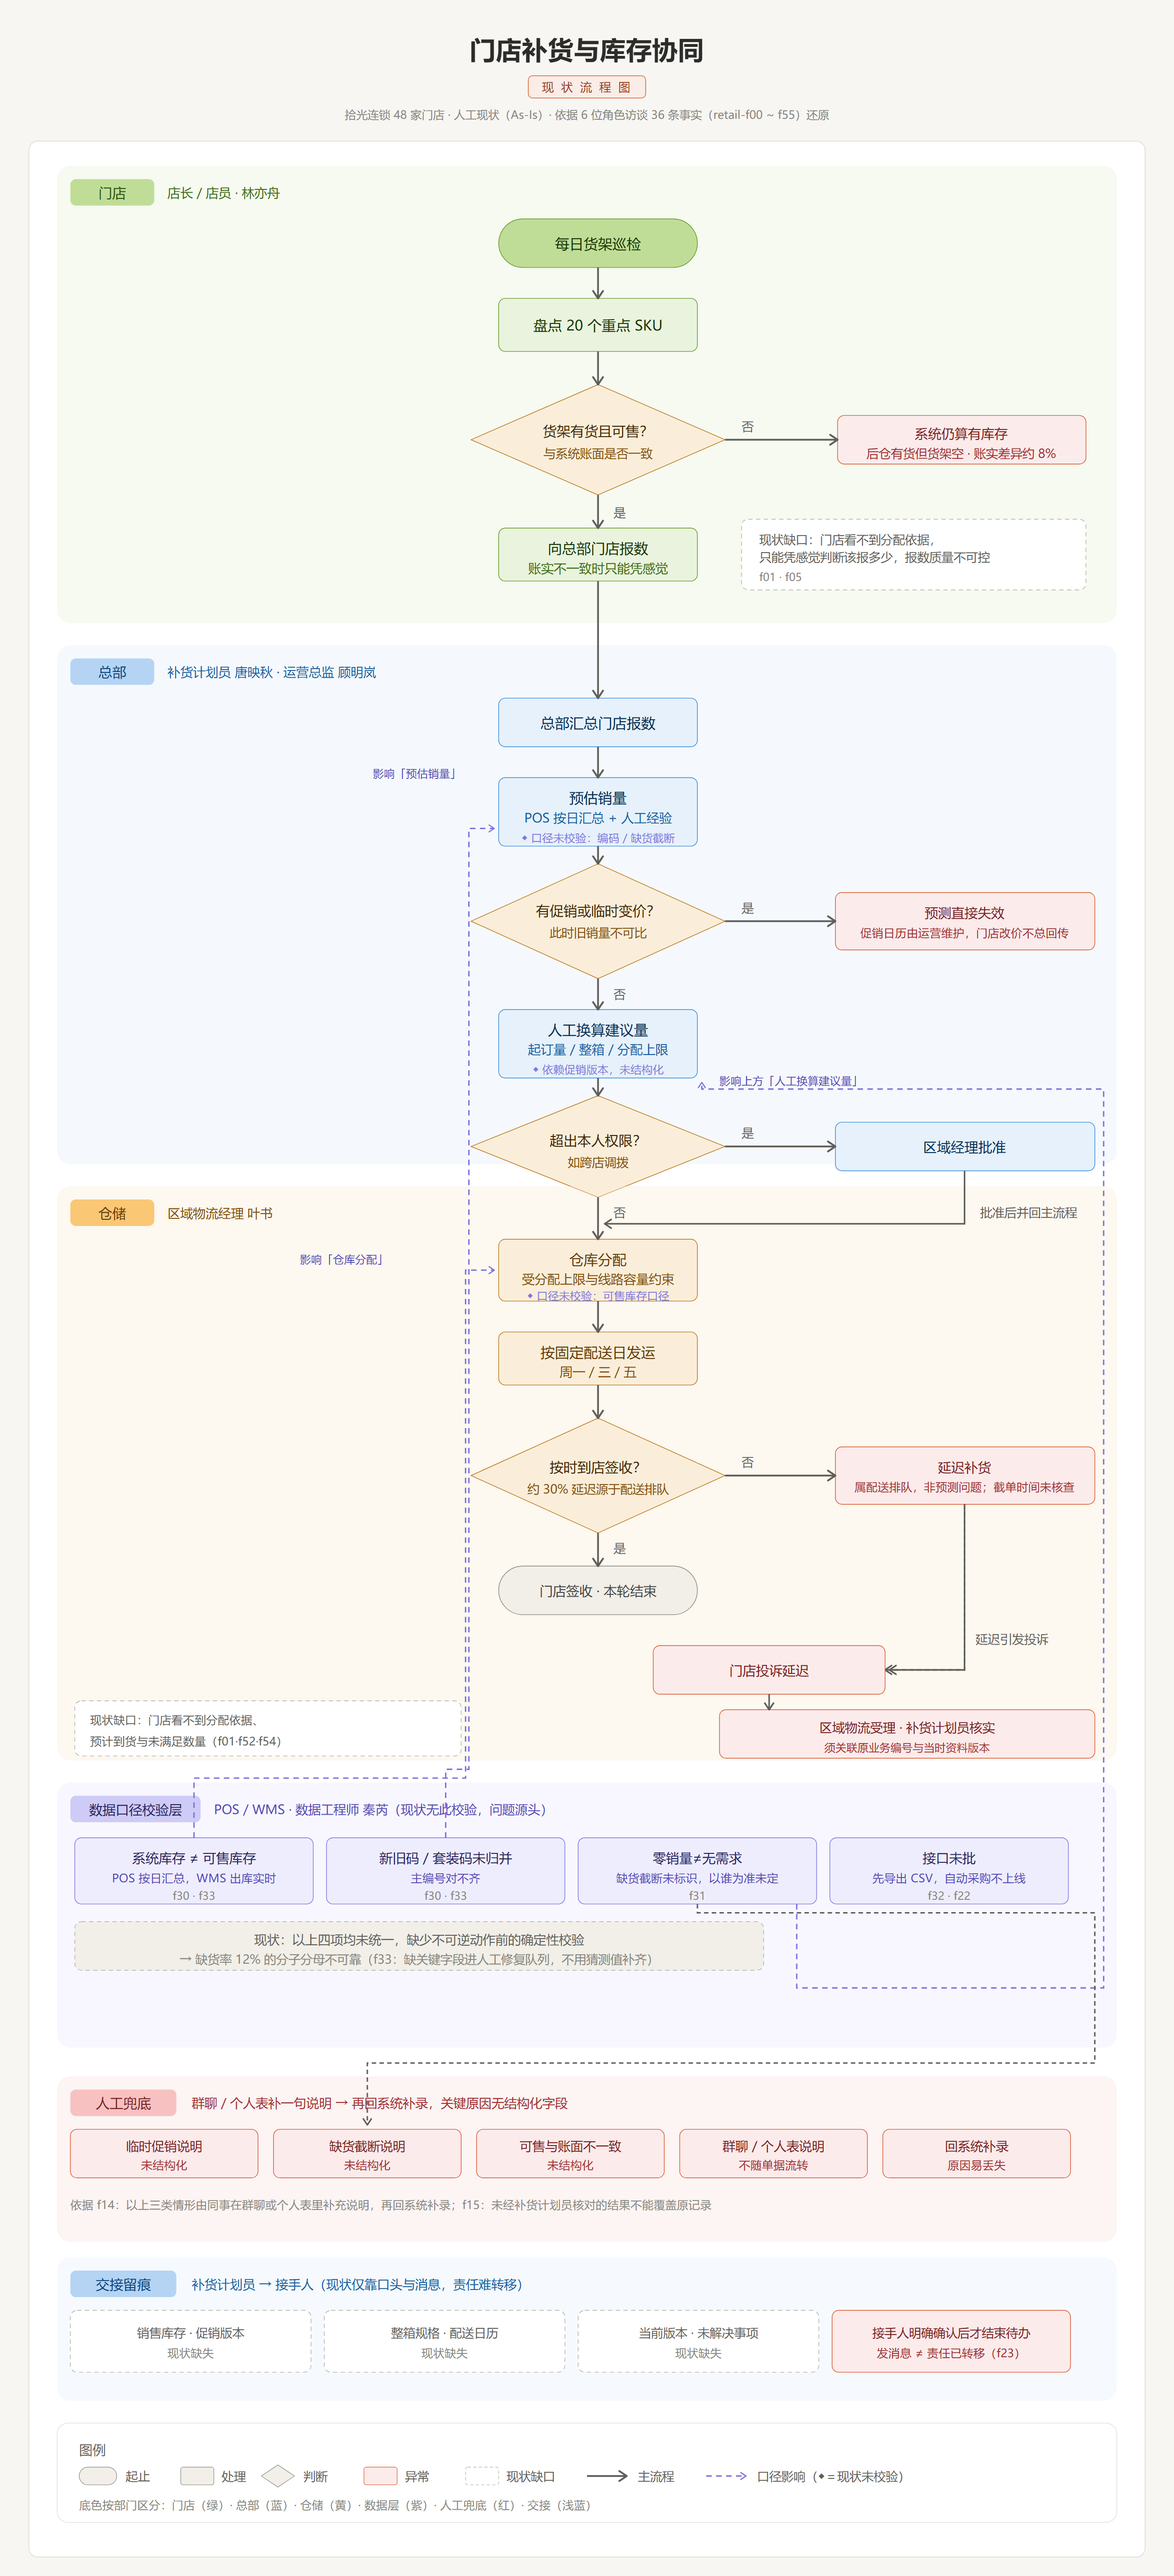
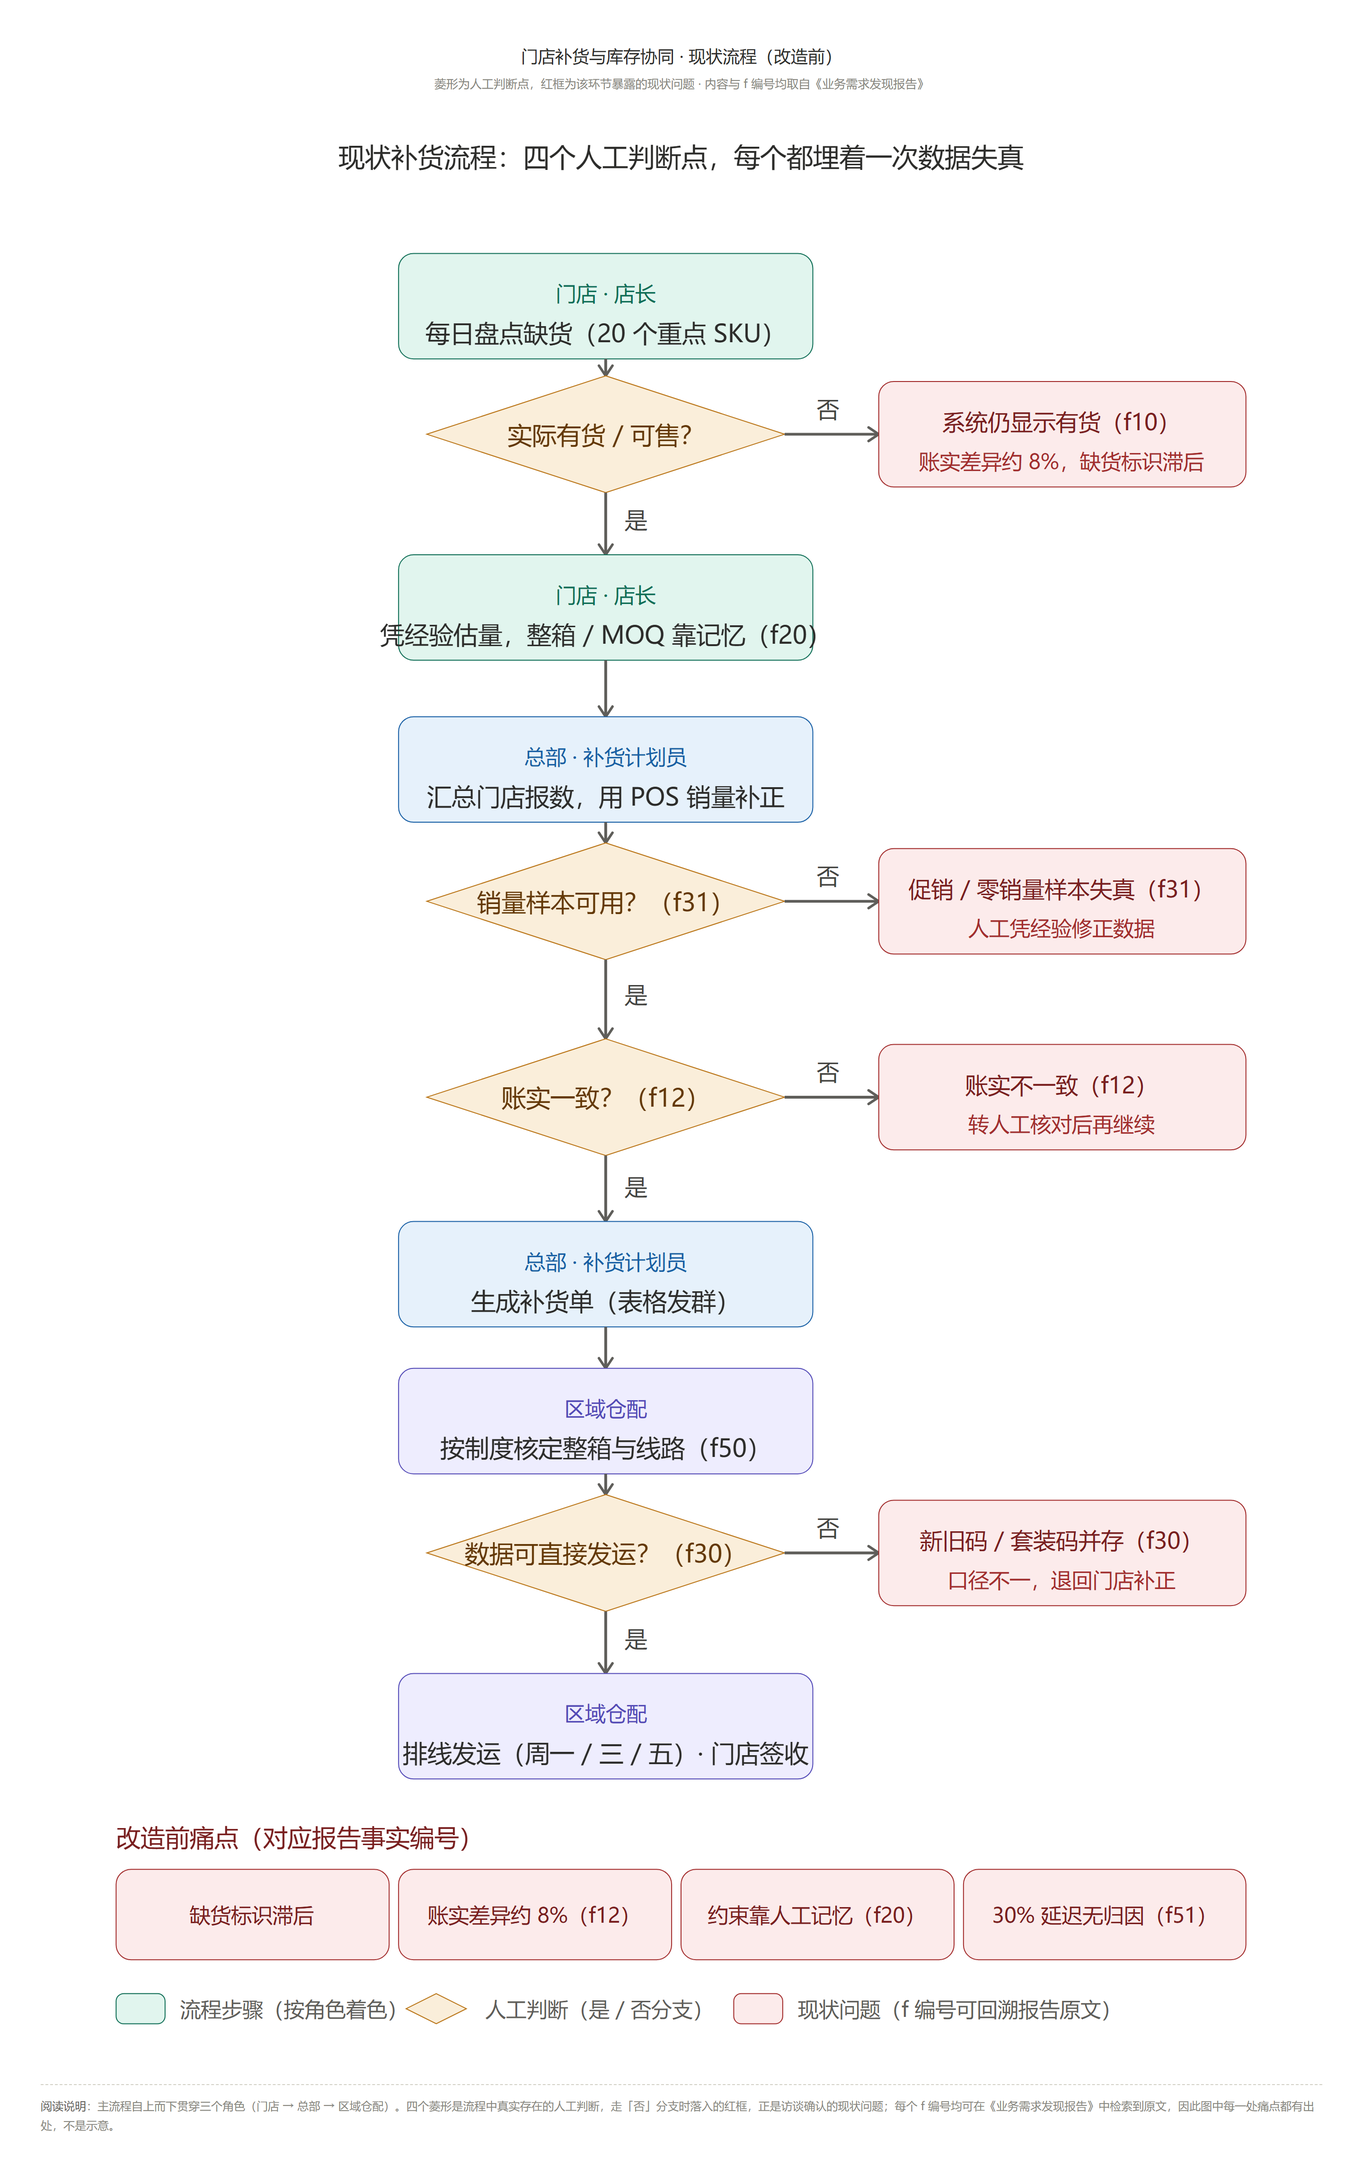
现状流程图 PNG 重制为判断框版的高清导出
- 删除旧的四泳道位图（与 HTML 内容不一致），替换为判断框版 HTML 的
  Chrome 无头渲染导出（2880×4614，2x 缩放，664KB），图文完全一致
- 新增 scripts/export_png.py：通用 HTML→PNG 导出工具（自动测量页面
  高度避免裁切/留白，device-scale-factor 控制分辨率，Chrome/Edge 均可）
- docs/README.md 索引同步：PNG 标注为 HTML 的同步导出版

之后修改流程图只需改 HTML 再运行 scripts/export_png.py 重新导出

diff --git a/scripts/export_png.py b/scripts/export_png.py
@@ -1,0 +1,108 @@
+"""把矢量 HTML 流程图导出为 PNG（Chrome headless，两步：先量高度，再截图）。
+
+用法：python export_png.py <源HTML> <输出PNG> [缩放倍数]
+"""
+import os
+import re
+import shutil
+import subprocess
+import sys
+import tempfile
+
+CHROME_CANDIDATES = [
+    r"C:\Program Files\Google\Chrome\Application\chrome.exe",
+    r"C:\Program Files (x86)\Google\Chrome\Application\chrome.exe",
+    r"C:\Program Files (x86)\Microsoft\Edge\Application\msedge.exe",
+    r"C:\Program Files\Microsoft\Edge\Application\msedge.exe",
+]
+
+
+def find_browser():
+    for p in CHROME_CANDIDATES:
+        if os.path.exists(p):
+            return p
+    raise RuntimeError("未找到 Chrome / Edge 浏览器")
+
+
+def build_export_html(src_html, out_html, card_width, scale):
+    """在源 HTML 里注入导出用样式：固定宽度、去掉圆角边框、SVG 按倍数放大。"""
+    html = open(src_html, encoding="utf-8").read()
+
+    svg_w = int(card_width * 0.94)          # 与卡片内边距对齐后的绘图区宽度
+    svg_h = int(svg_w * 1040 / 680)         # 按原始 viewBox 比例算高
+
+    override = f"""
+<style id="export-override">
+  html, body {{ background:#ffffff !important; }}
+  body {{ display:block !important; padding:0 !important; margin:0 !important; }}
+  .card {{ max-width:none !important; width:{card_width}px !important;
+           border:none !important; border-radius:0 !important;
+           padding:{int(card_width*0.033)}px {int(card_width*0.03)}px !important; }}
+  svg {{ width:{svg_w}px !important; height:{svg_h}px !important; }}
+</style>
+"""
+    # 测量脚本：把整页高度写进 title，供第二步读取
+    measure = """
+<script>
+  window.addEventListener('load', function () {
+    document.title = 'H=' + Math.ceil(document.body.scrollHeight);
+  });
+</script>
+"""
+    html = html.replace("</head>", override + "</head>")
+    html = html.replace("</body>", measure + "</body>")
+    open(out_html, "w", encoding="utf-8", newline="\n").write(html)
+    return svg_w, svg_h
+
+
+def run(browser, args, timeout=120):
+    return subprocess.run([browser] + args, capture_output=True, text=True,
+                          timeout=timeout, encoding="utf-8", errors="replace")
+
+
+def main():
+    src = sys.argv[1]
+    dst = sys.argv[2]
+    scale = float(sys.argv[3]) if len(sys.argv) > 3 else 2
+
+    browser = find_browser()
+    card_width = 1440
+
+    # 临时文件放在无中文的路径，避免命令行编码问题
+    tmpdir = os.path.join(tempfile.gettempdir(), "fc_export")
+    os.makedirs(tmpdir, exist_ok=True)
+    tmp_html = os.path.join(tmpdir, "export.html")
+    svg_w, svg_h = build_export_html(src, tmp_html, card_width, scale)
+    print(f"绘图区: {svg_w} x {svg_h} px")
+
+    url = "file:///" + tmp_html.replace("\\", "/")
+
+    # 第 1 步：量高度
+    probe = run(browser, ["--headless=new", "--disable-gpu", "--hide-scrollbars",
+                          f"--window-size={card_width},1200", "--virtual-time-budget=3000",
+                          "--dump-dom", url])
+    m = re.search(r"<title>H=(\d+)</title>", probe.stdout or "")
+    if not m:
+        raise RuntimeError("测量页面高度失败，Chrome 输出片段：\n" + (probe.stdout or "")[:400]
+                           + "\n" + (probe.stderr or "")[:400])
+    height = int(m.group(1)) + 4          # 留 4px 余量，避免最后一行被裁
+    print(f"页面总高: {height} px")
+
+    # 第 2 步：截图（device scale factor 控制输出分辨率）
+    out = os.path.join(tmpdir, "flow.png")
+    res = run(browser, ["--headless=new", "--disable-gpu", "--hide-scrollbars",
+                        f"--force-device-scale-factor={scale}",
+                        f"--window-size={card_width},{height}",
+                        "--virtual-time-budget=3000",
+                        f"--screenshot={out}", url])
+    if not os.path.exists(out):
+        raise RuntimeError("截图失败：" + (res.stderr or "")[:400])
+
+    shutil.copyfile(out, dst)
+    size = os.path.getsize(dst)
+    print(f"已输出: {dst}")
+    print(f"文件大小: {size/1024:.0f} KB")
+
+
+if __name__ == "__main__":
+    main()

diff --git a/docs/README.md b/docs/README.md
@@ -22,7 +22,7 @@
 |---|---|
 | `门店补货与库存协同智能体系统-技术架构设计.docx` | 分层架构、工具层与框架层职责边界、数据表设计、上线路径 |
 | `门店补货与库存协同-现状流程图.html` | 现状（人工）补货流程：门店 → 总部 → 区域仓配三角色贯穿，含 4 个菱形人工判断框与是/否分支，每个「否」分支对应一个现状问题（f 编号可回溯需求报告）；矢量 SVG，可缩放可编辑 |
-| `门店补货与库存协同-现状流程图.png` | 改造前的旧版图片（四泳道位图），内容与上方 HTML 不完全一致；正式引用请以 HTML 为准 |
+| `门店补货与库存协同-现状流程图.png` | 上方 HTML 的高清导出版（2880×4614，Chrome 无头渲染），供直接插入 Word / PPT；两者内容一致，修改 HTML 后可用 `scripts/export_png.py` 重新导出 |
 | `门店补货与库存协同-数智化流程图-局部.html` / `.png` | 数智化后的局部流程：智能体查库存销量 → 制度校验 → 草稿确认 |
 
 ## delivery/ 交付与验收
